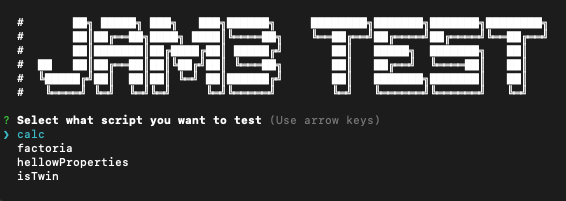
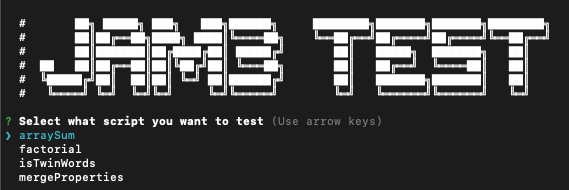
feat: add small description to initial choose

Changed region(s): [[0.03, 0.0789, 0.5106, 0.5263], [0.5406, 0.0789, 0.9912, 0.5263], [0.0, 0.5526, 0.6908, 0.9737]]

diff --git a/index.js b/index.js
@@ -2,9 +2,11 @@ const inquirer = require('inquirer');
 
 const scripts = require('./scripts/index.js');
 
-const scriptsName = Object.keys(scripts).sort();
+const scriptNames = Object.keys(scripts).sort().map((scriptKey) => {
+  return `${scriptKey} - ${scripts[scriptKey].smallDescription}`;
+});
 
-const initialQuestio = async () => {
+const initialQuestion = async (endProcess = false) => {
   console.clear();
   console.log(`
   #       ██╗ █████╗ ███╗   ███╗██████╗     ████████╗███████╗███████╗████████╗
@@ -15,29 +17,39 @@ const initialQuestio = async () => {
   #   ╚════╝ ╚═╝  ╚═╝╚═╝     ╚═╝╚═════╝        ╚═╝   ╚══════╝╚══════╝   ╚═╝   
   `);
 
+  if(endProcess) {
+    console.log(`
+    Thanks you :)
+    `);
+    return false;
+  }
+
   const { selectedScript } = await inquirer.prompt([{
     type: 'list',
     name: 'selectedScript',
     message: 'Select what script you want to test',
-    choices: scriptsName,
+    choices: scriptNames,
   }]);
 
   console.clear();
 
-  await scripts[ selectedScript ].start()
+  const selectedScriptKey = selectedScript.split(' - ');
+
+  await scripts[ selectedScriptKey[0] ].start()
 
   const { otherScript } = await inquirer.prompt([{
     type: 'confirm',
     name: 'otherScript',
     message: 'Would you like to test another script?',
-    choices: scriptsName,
   }]);
 
   console.clear();
 
   if (otherScript) {
-    initialQuestio();
+    initialQuestion();
   }
+
+  initialQuestion(true);
 }
 
-initialQuestio();
+initialQuestion();

diff --git a/scripts/arraySum.js b/scripts/arraySum.js
@@ -61,4 +61,5 @@ const start = async () => {
 
 module.exports = {
   start,
+  smallDescription: 'Returns the sum of the values of an array segment',
 };

diff --git a/scripts/factorial.js b/scripts/factorial.js
@@ -52,4 +52,5 @@ const start = async () => {
 
 module.exports = {
   start,
+  smallDescription: 'Calculate the factorial from a number',
 };

diff --git a/scripts/mergeProperties.js b/scripts/mergeProperties.js
@@ -58,4 +58,5 @@ const start = async () => {
 
 module.exports = {
   start,
+  smallDescription: 'Merge a given word with object keys',
 };

diff --git a/scripts/isTwinWords.js b/scripts/isTwinWords.js
@@ -67,4 +67,5 @@ const start = async () => {
 
 module.exports = {
   start,
+  smallDescription: 'Check if two words are twin',
 };
